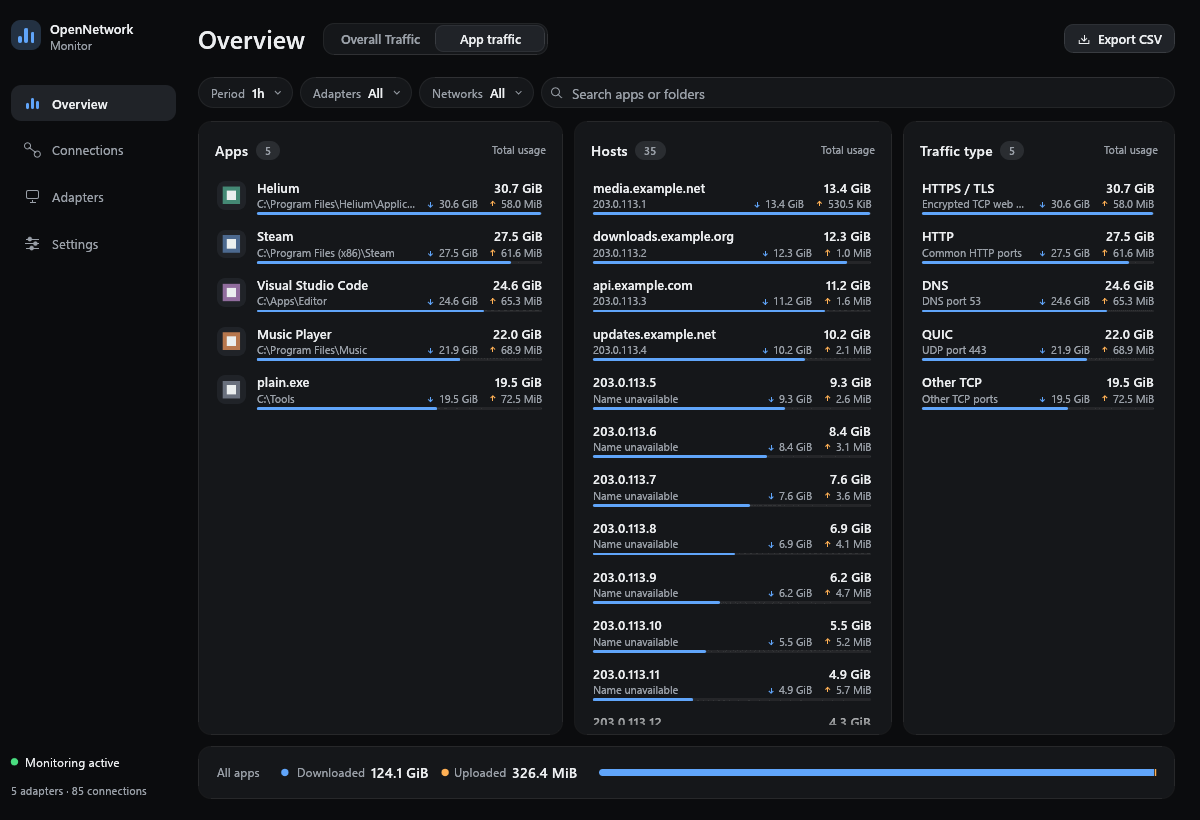
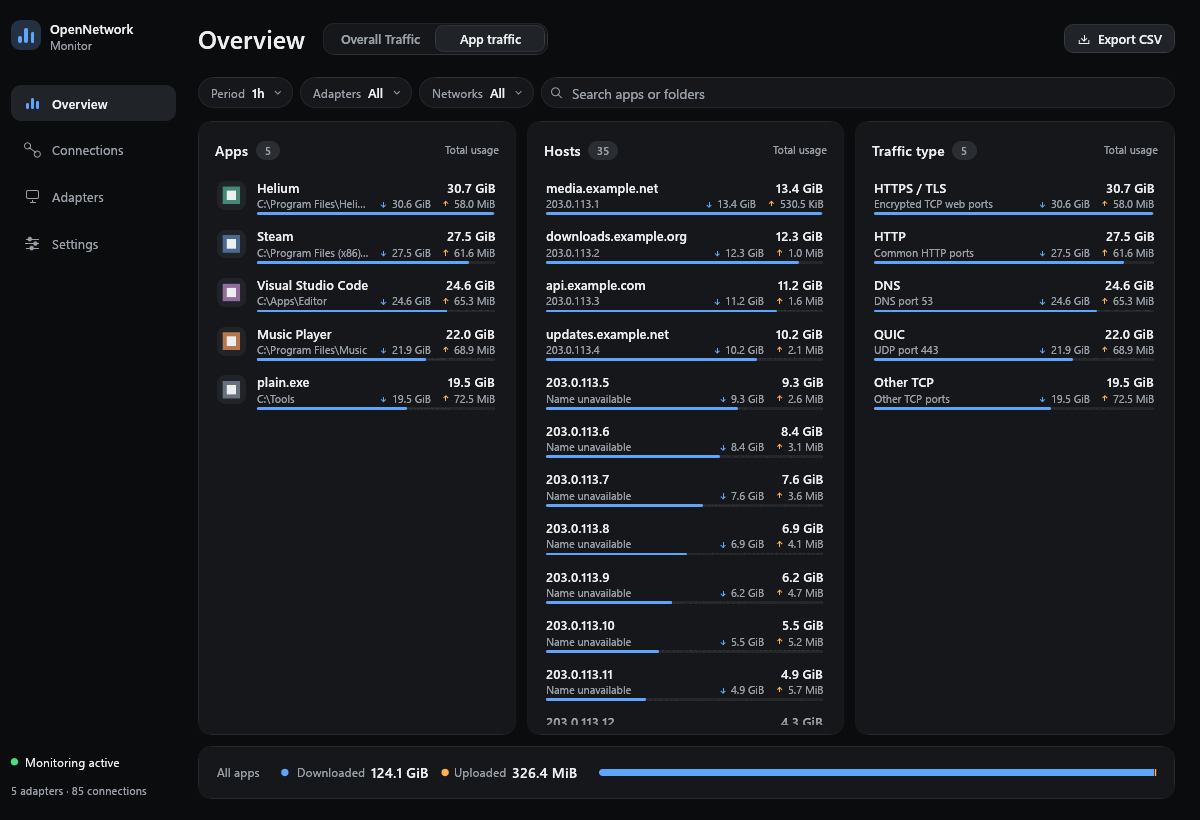
Equalise App traffic columns and fix tray Exit stalling while unfocused
App traffic: the Apps, Hosts and Traffic type lists now share the width
equally instead of 1.15 : 1.0 : 0.85. A test checks the headings are
evenly spaced.

Tray exit: choosing Exit from the tray menu while the window was open left
it open until the window was focused. The exit request (hide, then close)
is queued as viewport commands, which only run during a frame, and after
the tray menu closes the event loop stops drawing frames until the window
gets an input event. Reproduced with the real app and the real tray menu:
no frame ran after the choice, and focusing the window let the exit finish
at once. request_exit now also posts mouse-move messages to the main
window every 100 ms, at a position that changes each time because an
unchanged one is ignored, until the window is gone. The loop then runs a
frame and the exit goes through the normal path, saving state and joining
the collector first. The handle is recorded at startup by
tray::remember_window; the build hand-over uses the same function.

A test confirms an exit request keeps waking a real window at changing
positions. The architecture doc describes both changes.

diff --git a/src/tray.rs b/src/tray.rs
@@ -1,11 +1,19 @@
 use eframe::egui;
-use std::sync::{
-    Arc,
-    atomic::{AtomicBool, Ordering},
+use raw_window_handle::{HasWindowHandle, RawWindowHandle};
+use std::{
+    sync::{
+        Arc,
+        atomic::{AtomicBool, AtomicIsize, Ordering},
+    },
+    time::Duration,
 };
 use tray_icon::{
     MouseButton, MouseButtonState, TrayIcon, TrayIconBuilder, TrayIconEvent,
     menu::{Menu, MenuEvent, MenuItem},
+};
+use windows_sys::Win32::{
+    Foundation::HWND,
+    UI::WindowsAndMessaging::{IsWindow, PostMessageW, WM_MOUSEMOVE},
 };
 
 pub struct Tray {
@@ -59,12 +67,50 @@ impl Tray {
         Ok(Self { _icon: tray, exit })
     }
 }
+/// The main window, for the wake-ups below. Zero until `remember_window` is called.
+static MAIN_WINDOW: AtomicIsize = AtomicIsize::new(0);
+
+pub fn remember_window(window: &impl HasWindowHandle) {
+    if let Ok(handle) = window.window_handle()
+        && let RawWindowHandle::Win32(win32) = handle.as_raw()
+    {
+        MAIN_WINDOW.store(win32.hwnd.get(), Ordering::Release);
+    }
+}
+
 pub fn request_exit(ctx: &egui::Context, exit: &AtomicBool) {
     exit.store(true, Ordering::Release);
     // eframe saves state and joins the worker before destroying its window.
     // Hide it first so those necessary final writes don't leave it on screen.
     ctx.send_viewport_cmd(egui::ViewportCommand::Visible(false));
     ctx.send_viewport_cmd(egui::ViewportCommand::Close);
+    wake_until_closed();
+}
+
+/// After a choice in the tray menu the event loop can stop drawing frames until the
+/// window gets an input event such as focus, so a queued exit would wait for the user
+/// to click the window. Posting mouse moves keeps the loop turning until the exit has
+/// been carried out. The position changes every time because an unchanged one is
+/// ignored.
+fn wake_until_closed() {
+    let hwnd = MAIN_WINDOW.load(Ordering::Acquire);
+    if hwnd == 0 {
+        return;
+    }
+    std::thread::spawn(move || {
+        for step in 0..100isize {
+            std::thread::sleep(Duration::from_millis(100));
+            // SAFETY: IsWindow accepts any handle value, and posting a message to a window
+            // that is closing is harmless.
+            unsafe {
+                if IsWindow(hwnd as HWND) == 0 {
+                    return;
+                }
+                let at = 20 + step % 40;
+                PostMessageW(hwnd as HWND, WM_MOUSEMOVE, 0, (at << 16) | at);
+            }
+        }
+    });
 }
 fn show_window(ctx: &egui::Context, exit: &AtomicBool) {
     if exit.load(Ordering::Acquire) {
@@ -112,5 +158,57 @@ mod tests {
         assert!(commands.contains(&egui::ViewportCommand::Visible(true)));
         assert!(!commands.contains(&egui::ViewportCommand::Close));
         output.textures_delta.clear();
+    }
+
+    #[test]
+    fn an_exit_request_keeps_waking_the_main_window_until_it_closes() {
+        use windows_sys::Win32::UI::WindowsAndMessaging::{
+            CreateWindowExW, DestroyWindow, MSG, PM_REMOVE, PeekMessageW, WS_OVERLAPPEDWINDOW,
+        };
+        let class: Vec<u16> = "STATIC".encode_utf16().chain(Some(0)).collect();
+        // SAFETY: a built-in window class and null parent/menu/instance create a plain
+        // top-level window that is never shown; it is destroyed below.
+        let hwnd = unsafe {
+            CreateWindowExW(
+                0,
+                class.as_ptr(),
+                class.as_ptr(),
+                WS_OVERLAPPEDWINDOW,
+                0,
+                0,
+                100,
+                100,
+                std::ptr::null_mut(),
+                std::ptr::null_mut(),
+                std::ptr::null_mut(),
+                std::ptr::null(),
+            )
+        };
+        assert!(!hwnd.is_null());
+        MAIN_WINDOW.store(hwnd as isize, Ordering::Release);
+        let ctx = egui::Context::default();
+        let exit = AtomicBool::new(false);
+        request_exit(&ctx, &exit);
+        let mut positions = std::collections::BTreeSet::new();
+        let deadline = std::time::Instant::now() + Duration::from_secs(3);
+        while positions.len() < 2 && std::time::Instant::now() < deadline {
+            // SAFETY: MSG is plain data, filled in by the call.
+            let mut message: MSG = unsafe { std::mem::zeroed() };
+            // SAFETY: peeks this thread's own queue for messages posted to its window.
+            if unsafe { PeekMessageW(&mut message, hwnd, WM_MOUSEMOVE, WM_MOUSEMOVE, PM_REMOVE) }
+                != 0
+            {
+                positions.insert(message.lParam);
+            } else {
+                std::thread::sleep(Duration::from_millis(20));
+            }
+        }
+        MAIN_WINDOW.store(0, Ordering::Release);
+        // SAFETY: `hwnd` was created above on this thread and is destroyed once.
+        unsafe { DestroyWindow(hwnd) };
+        assert!(
+            positions.len() >= 2,
+            "The window should keep receiving mouse moves at changing positions: {positions:?}"
+        );
     }
 }

diff --git a/src/app/tests.rs b/src/app/tests.rs
@@ -255,6 +255,13 @@ fn app_lists_fit_and_keep_the_directory_directly_below_the_name() {
         };
         let (apps, hosts, types) = (at("Apps"), at("Hosts"), at("Traffic type"));
         assert!(apps.x < hosts.x && hosts.x < types.x);
+        // The three lists share the width equally, so their headings are evenly spaced.
+        assert!(
+            ((hosts.x - apps.x) - (types.x - hosts.x)).abs() <= 1.5,
+            "Columns differ: {} then {}",
+            hosts.x - apps.x,
+            types.x - hosts.x
+        );
         assert!((apps.y - hosts.y).abs() < 1.0 && (hosts.y - types.y).abs() < 1.0);
         let name = at("Friendly Browser");
         let directory = at(r"C:\Apps\Long application directory 0");

diff --git a/src/app.rs b/src/app.rs
@@ -166,6 +166,7 @@ impl MonitorApp {
                 format!("Tray unavailable: {e}. Closing the window will exit."),
             ),
         };
+        crate::tray::remember_window(cc);
         // A newer build asks this copy to exit the same way Tray > Exit does, so data is saved first.
         let exit = tray.as_ref().map_or_else(
             || Arc::new(std::sync::atomic::AtomicBool::new(false)),

diff --git a/src/app/apps.rs b/src/app/apps.rs
@@ -29,7 +29,7 @@ impl MonitorApp {
         ui.allocate_ui(Vec2::new(ui.available_width(), lists_height), |ui| {
             widgets::columns(
                 ui,
-                [Col::Flex(1.15), Col::Flex(1.0), Col::Flex(0.85)],
+                [Col::Flex(1.0), Col::Flex(1.0), Col::Flex(1.0)],
                 12.0,
                 |cols| {
                     let [apps, hosts, types] = cols;

diff --git a/docs/ARCHITECTURE.md b/docs/ARCHITECTURE.md
@@ -126,7 +126,7 @@ Typography uses Segoe UI Regular, Semibold and Light plus Cascadia Mono when ins
 
 Controls are painted directly instead of styled from egui defaults: pill filter chips that open popovers (a quick-range grid for periods, check rows for adapters), a segmented control with a sliding selection, switches, a slider, a search field, ghost/secondary/primary buttons and line icons drawn with the painter. Rows paint their text without allocating widgets, so labels never swallow clicks. App icons sit in rounded tiles; executables without an icon get a coloured initial.
 
-Layout. The sidebar collapses to an icon rail below 1100 logical points. Overview is a full-width chart card above one summary card with three sections (total usage, the LAN/WAN split and the top five apps). The summary has a fixed height so the chart takes everything that remains, and each of its sections is centred vertically in its cell. The chart legend shows each direction's live speed with its peak for the selected period (the highest observed sample inside the chart window, honouring a frozen chart) and toggles the series; chart options are a popover. App traffic keeps the three independent virtualized lists in weighted columns (Apps wider than Hosts and Traffic type) with a summary strip beneath. Each row shows a slim bar that ranks it against the busiest row and splits it by direction, with Down/Up values on the second line. Connections uses 52-point rows with protocol pills and a status dot, Adapters is a two-column card grid, and Settings is a centred 820-point column of grouped rows. Pages with fixed-height layouts zero egui's per-widget vertical spacing and budget their gaps explicitly.
+Layout. The sidebar collapses to an icon rail below 1100 logical points. Overview is a full-width chart card above one summary card with three sections (total usage, the LAN/WAN split and the top five apps). The summary has a fixed height so the chart takes everything that remains, and each of its sections is centred vertically in its cell. The chart legend shows each direction's live speed with its peak for the selected period (the highest observed sample inside the chart window, honouring a frozen chart) and toggles the series; chart options are a popover. App traffic keeps the three independent virtualized lists in equal-width columns with a summary strip beneath. Each row shows a slim bar that ranks it against the busiest row and splits it by direction, with Down/Up values on the second line. Connections uses 52-point rows with protocol pills and a status dot, Adapters is a two-column card grid, and Settings is a centred 820-point column of grouped rows. Pages with fixed-height layouts zero egui's per-widget vertical spacing and budget their gaps explicitly.
 
 The custom period dialog and calendar share the same tokens. Tests cover bounds at every supported size, theme and interface scale, the collapsing sidebar, filter popovers, the source switch, legend toggles and the settings controls; the offscreen renderer in scripts/render_ui.py is unchanged.
 
@@ -145,3 +145,7 @@ The window keeps the system's own title bar, so edge resizing, snap layouts, ani
 ## Window state
 
 eframe saves the window's size and position at exit. A minimized Windows window reports a 0x0 client area at (-32000, -32000), so exiting while minimized, which the build hand-over makes easy to do, saved exactly that. The next launch clamped it to egui's 64-point floor (ignoring the 960x680 minimum) and saved the 64-point size again, so every start was a tiny window until it was resized by hand. window_state.rs treats a record with a side under 200 points or a position beyond -10000 pixels as collapsed. `main` repairs such a record in `preferences.ron` before eframe reads it, replacing it with a record that has no size or position so the window opens at its default size, which also cleans up files written by older builds. `MonitorApp::save` runs after eframe stores the geometry and puts back the last real record when the fresh one is collapsed, so a minimized exit keeps the user's size and position. Both are tested, including against the exact records Windows produced.
+
+## Exit from the tray
+
+Choosing Exit from the tray menu while the window is open used to leave it open until the window was focused. The request was queued (hide, then close) but, after the menu closes, the event loop stops drawing frames until the window gets an input event, and a queued viewport command only runs during a frame. Reproduced with the real app and the real tray menu: no frame ran after the choice, and focusing the window let the exit finish at once. `request_exit` now also posts mouse-move messages to the main window every 100 ms, with a position that changes each time because an unchanged one is ignored, until the window is gone. These are ordinary input, so the loop runs a frame and processes the queued exit through the normal path, saving state and joining the collector first. The window handle is recorded at startup by `tray::remember_window`. The build hand-over uses the same function.
